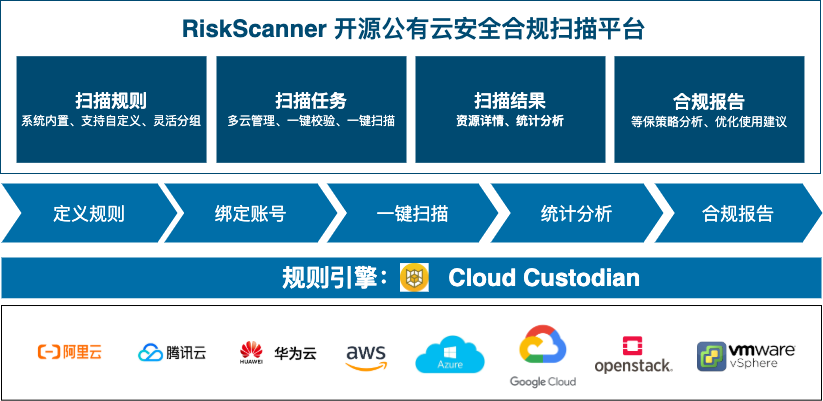
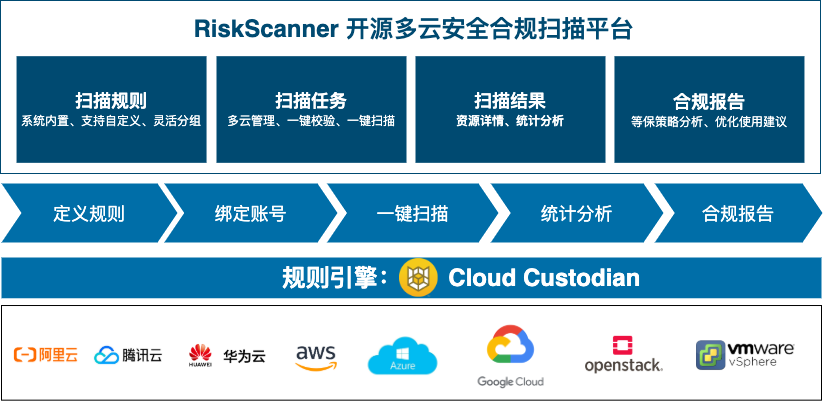
feat(readme): 优化readme

diff --git a/README.md b/README.md
@@ -9,21 +9,23 @@
   <a href="https://github.com/riskscanner/riskscanner/releases"><img src="https://img.shields.io/github/downloads/riskscanner/riskscanner/total" alt=""></a>
 </p>
 <hr />
-RiskScanner 是开源的多云安全合规扫描平台，通过 Cloud Custodian 的 YAML DSL 定义扫描规则，实现对主流公(私)有云资源的安全合规扫描及使用优化建议。
+RiskScanner 是开源的多云安全合规扫描平台，通过 Cloud Custodian 的 YAML DSL 和 Nuclei 的 YAML 模板定义扫描规则，实现对主流公(私)有云资源、无账号网络侦查的安全合规扫描及使用优化建议。
 
 **功能优势**
 
 > - [x] 等保 2.0 预检：符合等保 2.0 规范，覆盖安全审计、访问控制、入侵防范、网络架构和管理中心等各项检查；
 > - [x] CIS 合规检查：符合 CIS 规范，检查和实时监控在云上的资源是否符合 CIS 要求；
-> - [x] 最佳实践建议：制定合规管控基线，为企业级用户提供最佳实践建议，持续提升合规水平。
+> - [x] 漏洞扫描：通过对网络的扫描，发现可利用漏洞的安全检测（渗透攻击）；
+> - [x] 最佳实践建议：制定合规管控基线，为企业级用户提供最佳实践建议，持续提升合规水平；
 
-RiskScanner 遵循 GPL v2 开源协议，使用 SpringBoot/Vue 进行开发，界面美观、用户体验好，支持的公有云包括阿里云、腾讯云、华为云、Amazon Web Services、Microsoft Azure、Google Cloud，支持的私有云包括 OpenStack、VMware vSphere 等。
+RiskScanner 遵循 GPL v2 开源协议，使用 SpringBoot/Vue 进行开发，界面美观、用户体验好，支持的公有云包括阿里云、腾讯云、华为云、Amazon Web Services、Microsoft Azure、Google Cloud，支持的私有云包括 OpenStack、VMware vSphere 等。并且支持无账号的网络侦查安全漏洞扫描。
 
 **技术优势**
 
 > - [x] 规则简单灵活：扫描规则采用简单的 YAML 格式，简单易懂、并允许用户自定义规则；
 > - [x] 支持多公(私)有云：支持的公有云包括阿里云、腾讯云、华为云、Amazon Web Services、Microsoft Azure、Google Cloud，支持的私有云包括 OpenStack、VMware vSphere 等；
-> - [x] 支持多资源：支持的资源类型包括云服务器、云磁盘、云数据库、负载均衡、对象存储、专有网络、安全组等。
+> - [x] 支持多资源：支持的资源类型包括云服务器、云磁盘、云数据库、负载均衡、对象存储、专有网络、安全组等；
+> - [x] 支持无账号网络侦查：可配置攻击目标，零误报，包含了爬虫、通用漏洞检测（如 SQL 注入、XSS 检测）、指纹信息收集（如 Web 服务、语言框架等）、专用漏洞检测等；
 
 ![功能架构](./frontend/src/assets/img/readme/functional-architecture.png)
 
@@ -60,7 +62,8 @@ curl -sSL https://github.com/riskscanner/riskscanner/releases/latest/download/qu
 
 - 前端：[Vue.js](https://vuejs.org/)
 - 后端：[Spring Boot](https://www.tutorialspoint.com/spring_boot/spring_boot_introduction.htm)
-- 扫描引擎：[cloudcustodian](https://github.com/cloud-custodian/cloud-custodian)
+- 云平台扫描引擎：[Cloud Custodian](https://github.com/cloud-custodian/cloud-custodian)
+- 网络侦查扫描引擎：[Nuclei](https://github.com/projectdiscovery/nuclei)
 - 数据库：[MySQL](https://www.mysql.com/)
 - 基础设施：[Docker](https://www.docker.com/)
 
